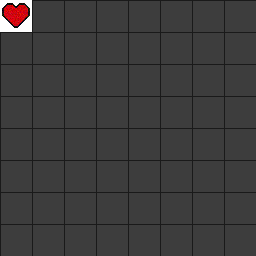
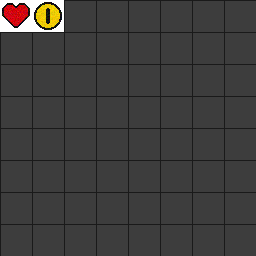
Added some objects

Changed region(s): [[0.125, 0.0, 0.25, 0.125]]

diff --git a/Source/Trevi/Dalthow/Object/Neutral.java b/Source/Trevi/Dalthow/Object/Neutral.java
@@ -1,0 +1,47 @@
+/**
+ * Dalthow
+ *
+ * 
+ * @Author Trevi Awater 
+ * @License Creative Commons 4
+ * 
+ **/
+
+package Trevi.Dalthow.Object;
+
+import java.awt.Graphics;
+import java.awt.image.BufferedImage;
+
+import Trevi.Dalthow.Common.Main;
+import Trevi.Dalthow.Handler.SpriteGrabber;
+
+public class Neutral
+{
+	// Declaration
+	
+	private BufferedImage Neutral;
+	
+	public Neutral(double xPos, double yPos, String Name, Main Main, int Col, int Row)
+	{
+		SpriteGrabber Sprite = new SpriteGrabber(Main.getPlayerSpriteSheet());
+		
+		Neutral = Sprite.grabPlayerImage(Col, Row, 32, 32);
+	}
+
+	
+	// Everything in the game that renders
+	
+	public void render(Graphics Graphics, int Par1, int Par2)
+	{
+		Graphics.drawImage(Neutral, Par1, Par2, 32, 32 , null);
+	}
+	
+
+	
+	// Everything in the game that updates
+	
+	public void tick() throws Exception
+	{
+		
+	}
+}

diff --git a/Source/Trevi/Dalthow/Object/Enemy.java b/Source/Trevi/Dalthow/Object/Enemy.java
@@ -1,0 +1,47 @@
+/**
+ * Dalthow
+ *
+ * 
+ * @Author Trevi Awater 
+ * @License Creative Commons 4
+ * 
+ **/
+
+package Trevi.Dalthow.Object;
+
+import java.awt.Graphics;
+import java.awt.image.BufferedImage;
+
+import Trevi.Dalthow.Common.Main;
+import Trevi.Dalthow.Handler.SpriteGrabber;
+
+public class Enemy
+{
+	// Declaration
+	
+	private BufferedImage Enemy;
+	
+	public Enemy(double xPos, double yPos, String Name, Main Main, int Col, int Row)
+	{
+		SpriteGrabber Sprite = new SpriteGrabber(Main.getPlayerSpriteSheet());
+		
+		Enemy = Sprite.grabPlayerImage(Col, Row, 32, 32);
+	}
+
+	
+	// Everything in the game that renders
+	
+	public void render(Graphics Graphics, int Par1, int Par2)
+	{
+		Graphics.drawImage(Enemy, Par1, Par2, 32, 32 , null);
+	}
+	
+
+	
+	// Everything in the game that updates
+	
+	public void tick() throws Exception
+	{
+		
+	}
+}

diff --git a/Source/Trevi/Dalthow/Object/Item.java b/Source/Trevi/Dalthow/Object/Item.java
@@ -1,0 +1,47 @@
+/**
+ * Dalthow
+ *
+ * 
+ * @Author Trevi Awater 
+ * @License Creative Commons 4
+ * 
+ **/
+
+package Trevi.Dalthow.Object;
+
+import java.awt.Graphics;
+import java.awt.image.BufferedImage;
+
+import Trevi.Dalthow.Common.Main;
+import Trevi.Dalthow.Handler.SpriteGrabber;
+
+public class Item
+{
+	// Declaration
+	
+	private BufferedImage Item;
+	
+	public Item(double xPos, double yPos, String Name, Main Main, int Col, int Row)
+	{
+		SpriteGrabber Sprite = new SpriteGrabber(Main.getPlayerSpriteSheet());
+		
+		Item = Sprite.grabPlayerImage(Col, Row, 32, 32);
+	}
+
+	
+	// Everything in the game that renders
+	
+	public void render(Graphics Graphics, int Par1, int Par2)
+	{
+		Graphics.drawImage(Item, Par1, Par2, 32, 32 , null);
+	}
+	
+
+	
+	// Everything in the game that updates
+	
+	public void tick() throws Exception
+	{
+		
+	}
+}

diff --git a/Source/Trevi/Dalthow/Common/Main.java b/Source/Trevi/Dalthow/Common/Main.java
@@ -475,8 +475,6 @@ public class Main extends Canvas implements Runnable
 		    }
 		});
 		
-		
-		
 		Game.start();
 	}
 	
